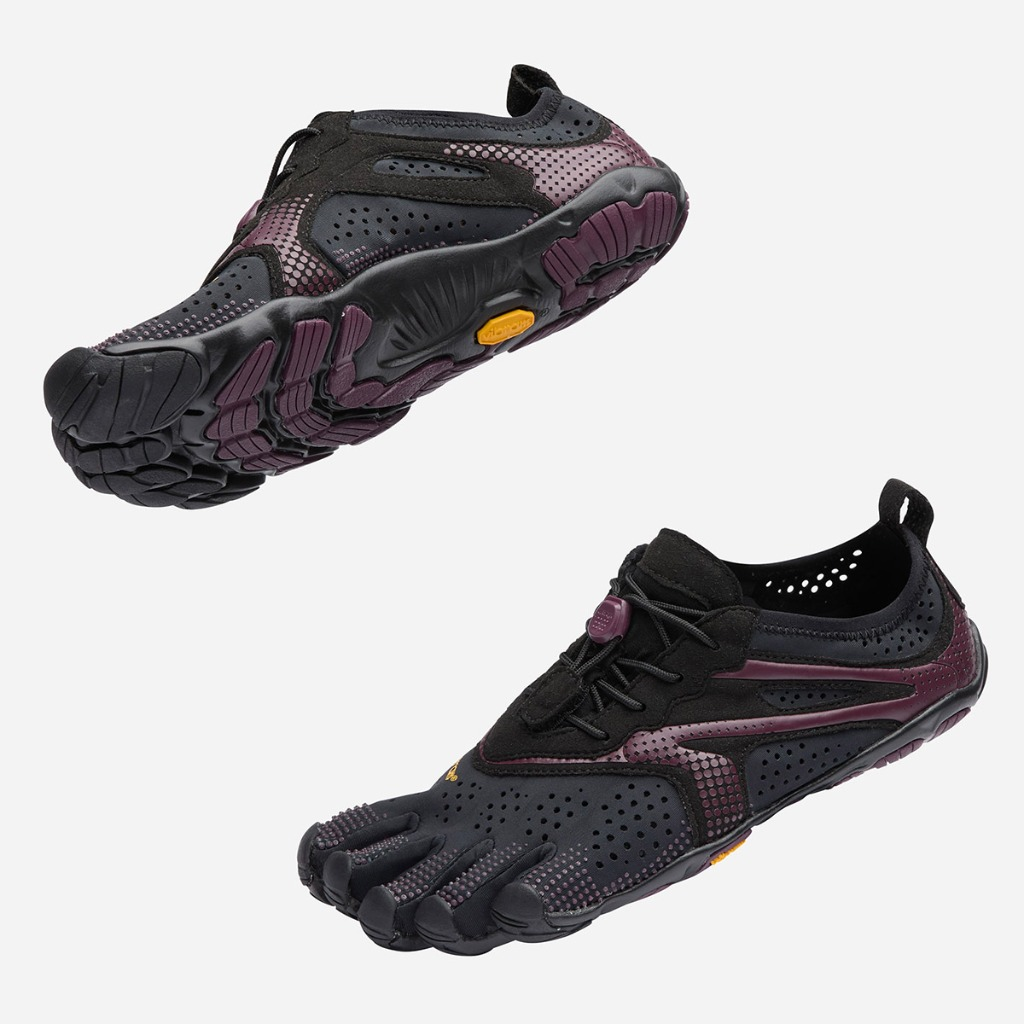
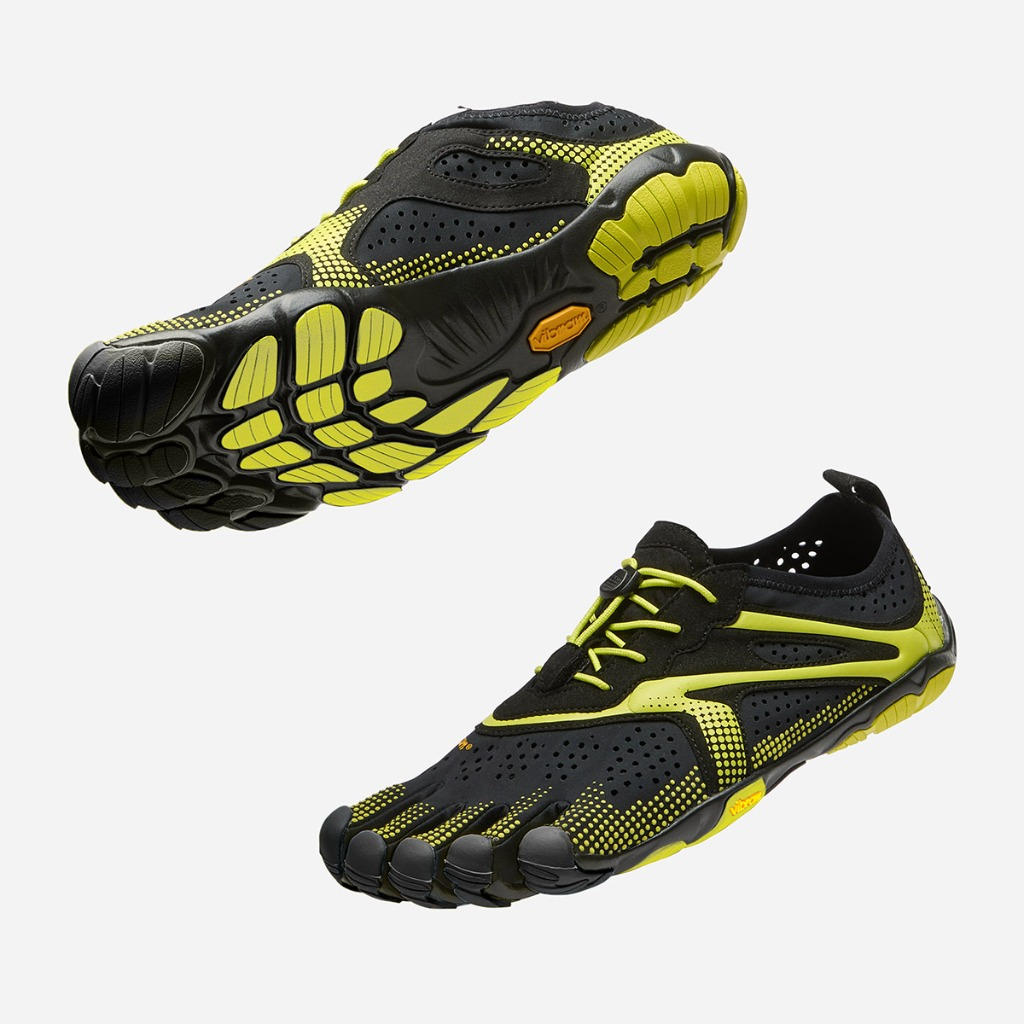
Update V-RUN Black image and TRAILOPE names

Changed region(s): [[0.0312, 0.0625, 0.75, 0.5312], [0.2812, 0.4375, 0.9688, 0.9375]]

diff --git a/index.html b/index.html
@@ -137,7 +137,7 @@
       </div>
       <div class="bg-white rounded-3xl p-6 shadow-xl border border-black/5 flex flex-col items-center">
         
-    <div class="carousel-container relative w-full mb-6 group overflow-hidden rounded-xl" data-titles='["TRAILOPE", "TRAILOPE Deep Lake"]' data-current-index="0" data-total="2">
+    <div class="carousel-container relative w-full mb-6 group overflow-hidden rounded-xl" data-titles='["TRAILOPE DEEP LAKE", "TRAILOPE DEEP LAKE"]' data-current-index="0" data-total="2">
       <div class="carousel-track flex transition-transform duration-300" style="transform: translateX(0%);">
         <img src="assets/product_trailope.jpg" alt="Trailope" class="min-w-full h-auto object-cover aspect-[4/3] bg-neutral-50"><img src="assets/trailope_deep_lake.jpg" alt="Trailope Deep Lake" class="min-w-full h-auto object-cover aspect-[4/3] bg-neutral-50">
       </div>